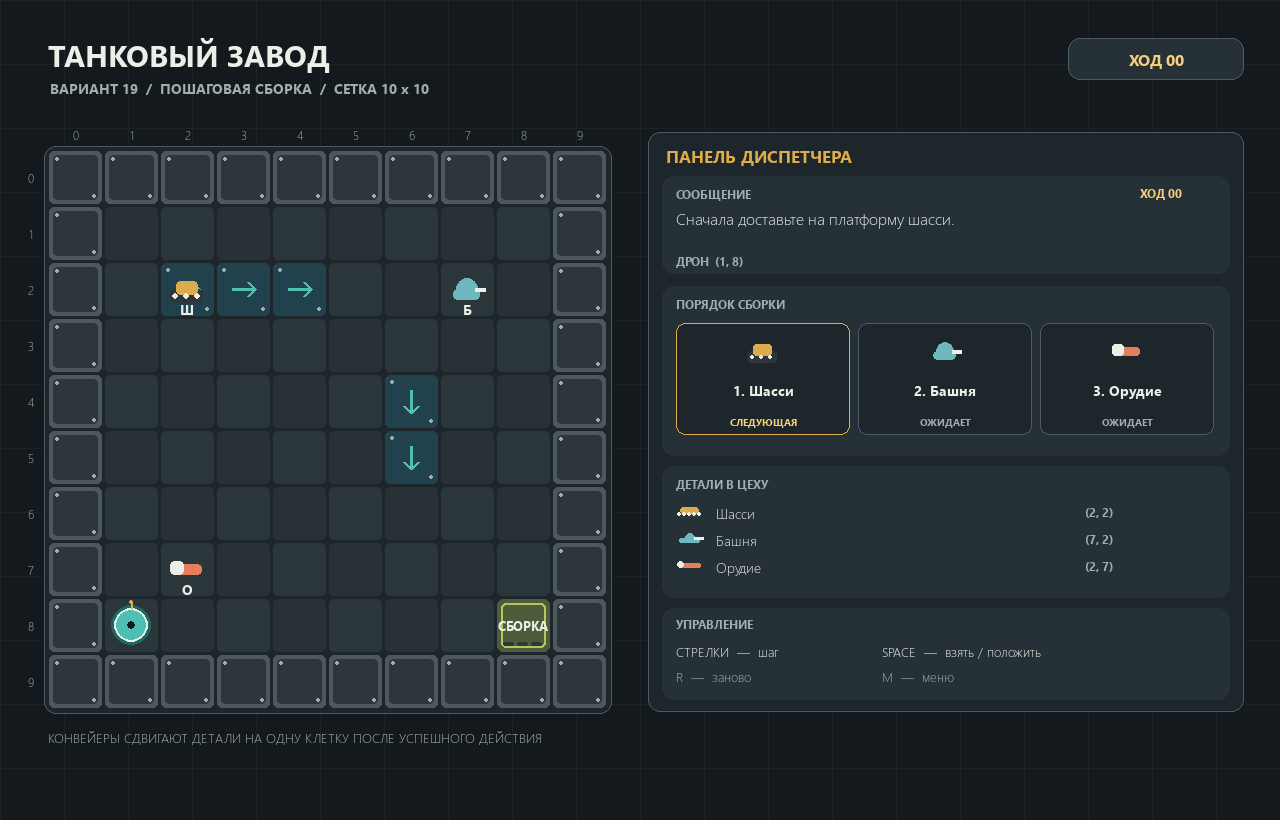
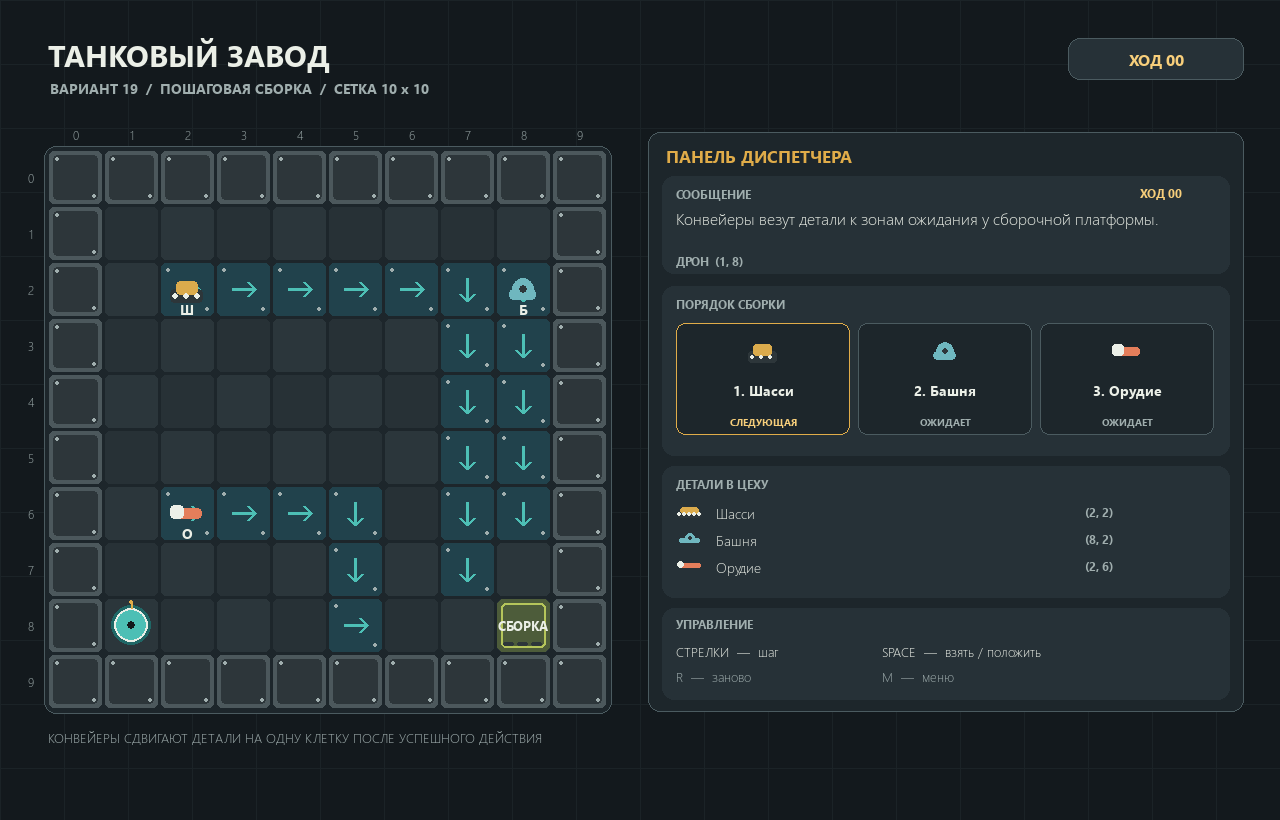
Make conveyor routing central to part retrieval
Start every component on a dedicated belt and carry it to a staging cell beside the assembly platform so each turn visibly advances the puzzle.

diff --git a/tests/test_factory.py b/tests/test_factory.py
@@ -32,6 +32,22 @@ class FactoryMovementTests(unittest.TestCase):
         self.assertEqual(len(factory.parts), 3)
         self.assertEqual(factory.assembly_indices, [])
 
+    def test_default_parts_start_on_conveyors_and_move_with_each_turn(self):
+        factory = Factory()
+
+        self.assertTrue(all(part.position in factory.conveyors for part in factory.parts))
+        self.assertTrue(factory.move_drone(1, 0))
+
+        self.assertEqual(
+            {part.kind: part.position for part in factory.parts},
+            {
+                PartKind.CHASSIS: (3, 2),
+                PartKind.TURRET: (8, 3),
+                PartKind.CANNON: (3, 6),
+            },
+        )
+        self.assertIn("перемещено деталей: 3", factory.message)
+
     def test_arrow_step_moves_drone_exactly_one_cell(self):
         factory = Factory()
         start = factory.drone_position
@@ -167,7 +183,7 @@ class AssemblyTests(unittest.TestCase):
         self.assertEqual(factory.status, FactoryStatus.WON)
         self.assertFalse(factory.move_drone(1, 0))
 
-    def test_default_level_can_be_completed_with_grid_moves(self):
+    def test_default_level_can_be_completed_after_conveyors_stage_all_parts(self):
         factory = Factory()
 
         def move_to(destination):
@@ -180,17 +196,21 @@ class AssemblyTests(unittest.TestCase):
             while factory.drone.grid_y > destination[1]:
                 self.assertTrue(factory.move_drone(0, -1))
 
-        move_to((1, 2))
-        move_to((5, 2))
-        self.assertEqual(factory.get_part_at((5, 2)).kind, PartKind.CHASSIS)
-        self.assertTrue(factory.interact())
-        move_to(factory.assembly_position)
-        self.assertTrue(factory.interact())
+        for _ in range(12):
+            direction_x = 1 if factory.drone.grid_x < 8 else -1
+            self.assertTrue(factory.move_drone(direction_x, 0))
 
-        for part_kind, position in (
-            (PartKind.TURRET, (7, 2)),
-            (PartKind.CANNON, (2, 7)),
-        ):
+        staging_positions = (
+            (PartKind.CHASSIS, (7, 8)),
+            (PartKind.TURRET, (8, 7)),
+            (PartKind.CANNON, (6, 8)),
+        )
+        for part_kind, position in staging_positions:
+            part = factory.get_part_at(position)
+            self.assertIsNotNone(part)
+            self.assertEqual(part.kind, part_kind)
+
+        for _, position in staging_positions:
             move_to(position)
             self.assertTrue(factory.interact())
             move_to(factory.assembly_position)

diff --git a/tank_factory/factory.py b/tank_factory/factory.py
@@ -59,7 +59,7 @@ class Factory:
         self.assembly_stack: list[PartKind] = []
         self.turn_count = 0
         self.status = FactoryStatus.ACTIVE
-        self.message = "Сначала доставьте на платформу шасси."
+        self.message = "Конвейеры везут детали к зонам ожидания у сборочной платформы."
         self._validate_layout()
 
     @staticmethod
@@ -175,10 +175,12 @@ class Factory:
 
     def _finish_turn(self, message: str) -> None:
         self.turn_count += 1
+        moved_parts = self._advance_conveyors()
+        if moved_parts:
+            message = f"{message} По конвейерам перемещено деталей: {moved_parts}."
         self.message = message
-        self._advance_conveyors()
 
-    def _advance_conveyors(self) -> None:
+    def _advance_conveyors(self) -> int:
         """Сдвигает детали одновременно, чтобы результат не зависел от порядка списка."""
         positions = [part.position for part in self.parts]
         intended_moves: dict[int, Cell] = {}
@@ -215,3 +217,4 @@ class Factory:
 
         for index, destination in intended_moves.items():
             self.parts[index].grid_x, self.parts[index].grid_y = destination
+        return len(intended_moves)

diff --git a/tank_factory/renderer.py b/tank_factory/renderer.py
@@ -240,12 +240,11 @@ class Renderer:
             base = pygame.Rect(rect.left + scale // 5, rect.top + scale // 2, rect.width - scale * 2 // 5, scale // 4)
             pygame.draw.rect(surface, color, base, border_radius=max(3, scale // 9))
             pygame.draw.circle(surface, color, (rect.centerx, rect.top + scale // 2), max(5, scale // 4))
-            pygame.draw.line(
+            pygame.draw.circle(
                 surface,
-                PALETTE["text"],
-                (rect.centerx + scale // 5, rect.top + scale // 2),
-                (rect.right - scale // 10, rect.top + scale // 2),
-                max(3, scale // 9),
+                PALETTE["wall_dark"],
+                (rect.centerx, rect.top + scale // 2),
+                max(2, scale // 11),
             )
         else:
             barrel = pygame.Rect(rect.left + scale // 6, rect.centery - scale // 8, rect.width - scale // 3, scale // 4)

diff --git a/tank_factory/constants.py b/tank_factory/constants.py
@@ -19,15 +19,32 @@ ASSEMBLY_POSITION = (8, 8)
 ASSEMBLY_ORDER = (PartKind.CHASSIS, PartKind.TURRET, PartKind.CANNON)
 INITIAL_PARTS = (
     (PartKind.CHASSIS, 2, 2),
-    (PartKind.TURRET, 7, 2),
-    (PartKind.CANNON, 2, 7),
+    (PartKind.TURRET, 8, 2),
+    (PartKind.CANNON, 2, 6),
 )
 CONVEYOR_LAYOUT = (
     (2, 2, 1, 0),
     (3, 2, 1, 0),
     (4, 2, 1, 0),
-    (6, 4, 0, 1),
-    (6, 5, 0, 1),
+    (5, 2, 1, 0),
+    (6, 2, 1, 0),
+    (7, 2, 0, 1),
+    (7, 3, 0, 1),
+    (7, 4, 0, 1),
+    (7, 5, 0, 1),
+    (7, 6, 0, 1),
+    (7, 7, 0, 1),
+    (8, 2, 0, 1),
+    (8, 3, 0, 1),
+    (8, 4, 0, 1),
+    (8, 5, 0, 1),
+    (8, 6, 0, 1),
+    (2, 6, 1, 0),
+    (3, 6, 1, 0),
+    (4, 6, 1, 0),
+    (5, 6, 0, 1),
+    (5, 7, 0, 1),
+    (5, 8, 1, 0),
 )
 
 PALETTE = {

diff --git a/README.md b/README.md
@@ -1,6 +1,6 @@
 # Танковый завод — ЛР1, вариант 19
 
-Пошаговая головоломка на Pygame: дрон перемещается по сетке 10 x 10, подбирает шасси, башню и орудие и доставляет их на сборочную платформу в строгом порядке. После каждого успешного действия свободные детали на конвейерах одновременно сдвигаются на одну клетку по направлению ленты.
+Пошаговая головоломка на Pygame: дрон перемещается по сетке 10 x 10, подбирает шасси, башню и орудие и доставляет их на сборочную платформу в строгом порядке. Все три детали начинают на отдельных конвейерных дорожках и по мере ходов перевозятся в зоны ожидания вокруг платформы: орудие — к (6, 8), шасси — к (7, 8), башня — к (8, 7). После каждого успешного действия свободные детали на лентах одновременно сдвигаются на одну клетку, а HUD показывает их координаты и число перемещённых деталей.
 
 ![Игровое поле «Танковый завод»](screenshots/factory_gameplay.png)
 
